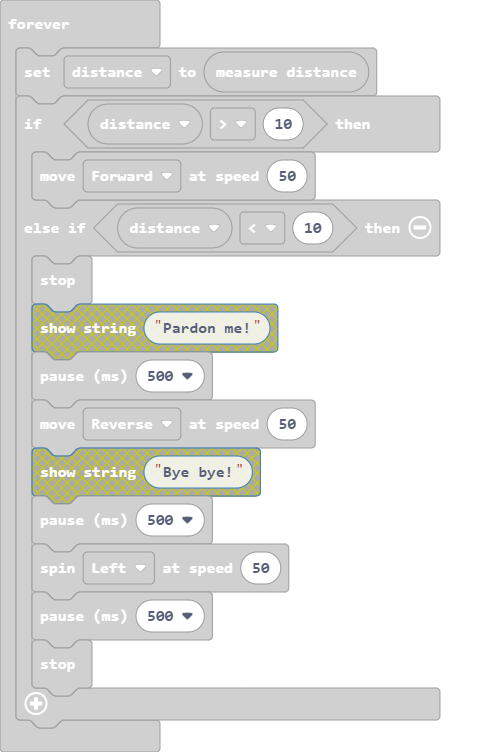
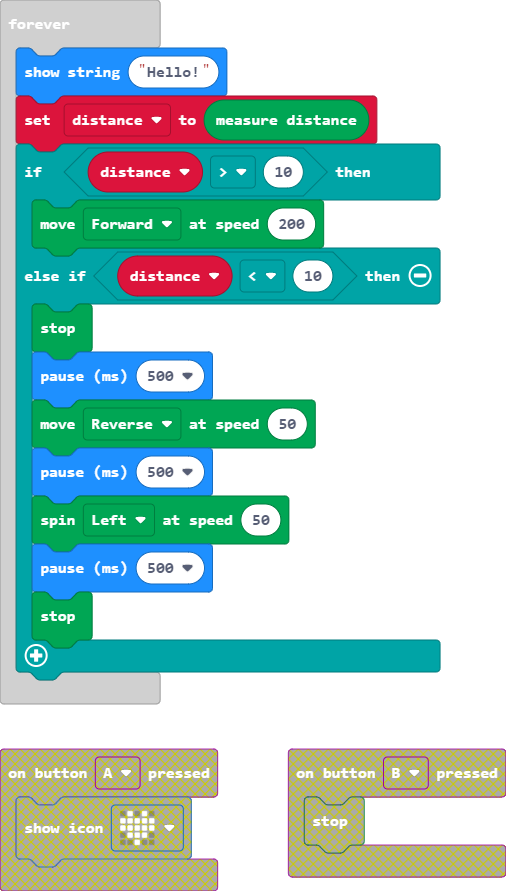
Update main.blocks, main.ts

diff --git a/main.ts b/main.ts
@@ -1,14 +1,9 @@
 let distance = 0
-input.onButtonPressed(Button.A, function () {
-    basic.showIcon(IconNames.Heart)
-})
-input.onButtonPressed(Button.B, function () {
-    Kitronik_Move_Motor.stop()
-})
 basic.forever(function () {
+    basic.showString("Hello!")
     distance = Kitronik_Move_Motor.measure()
     if (distance > 10) {
-        Kitronik_Move_Motor.move(Kitronik_Move_Motor.DriveDirections.Forward, 50)
+        Kitronik_Move_Motor.move(Kitronik_Move_Motor.DriveDirections.Forward, 200)
     } else if (distance < 10) {
         Kitronik_Move_Motor.stop()
         basic.pause(500)
